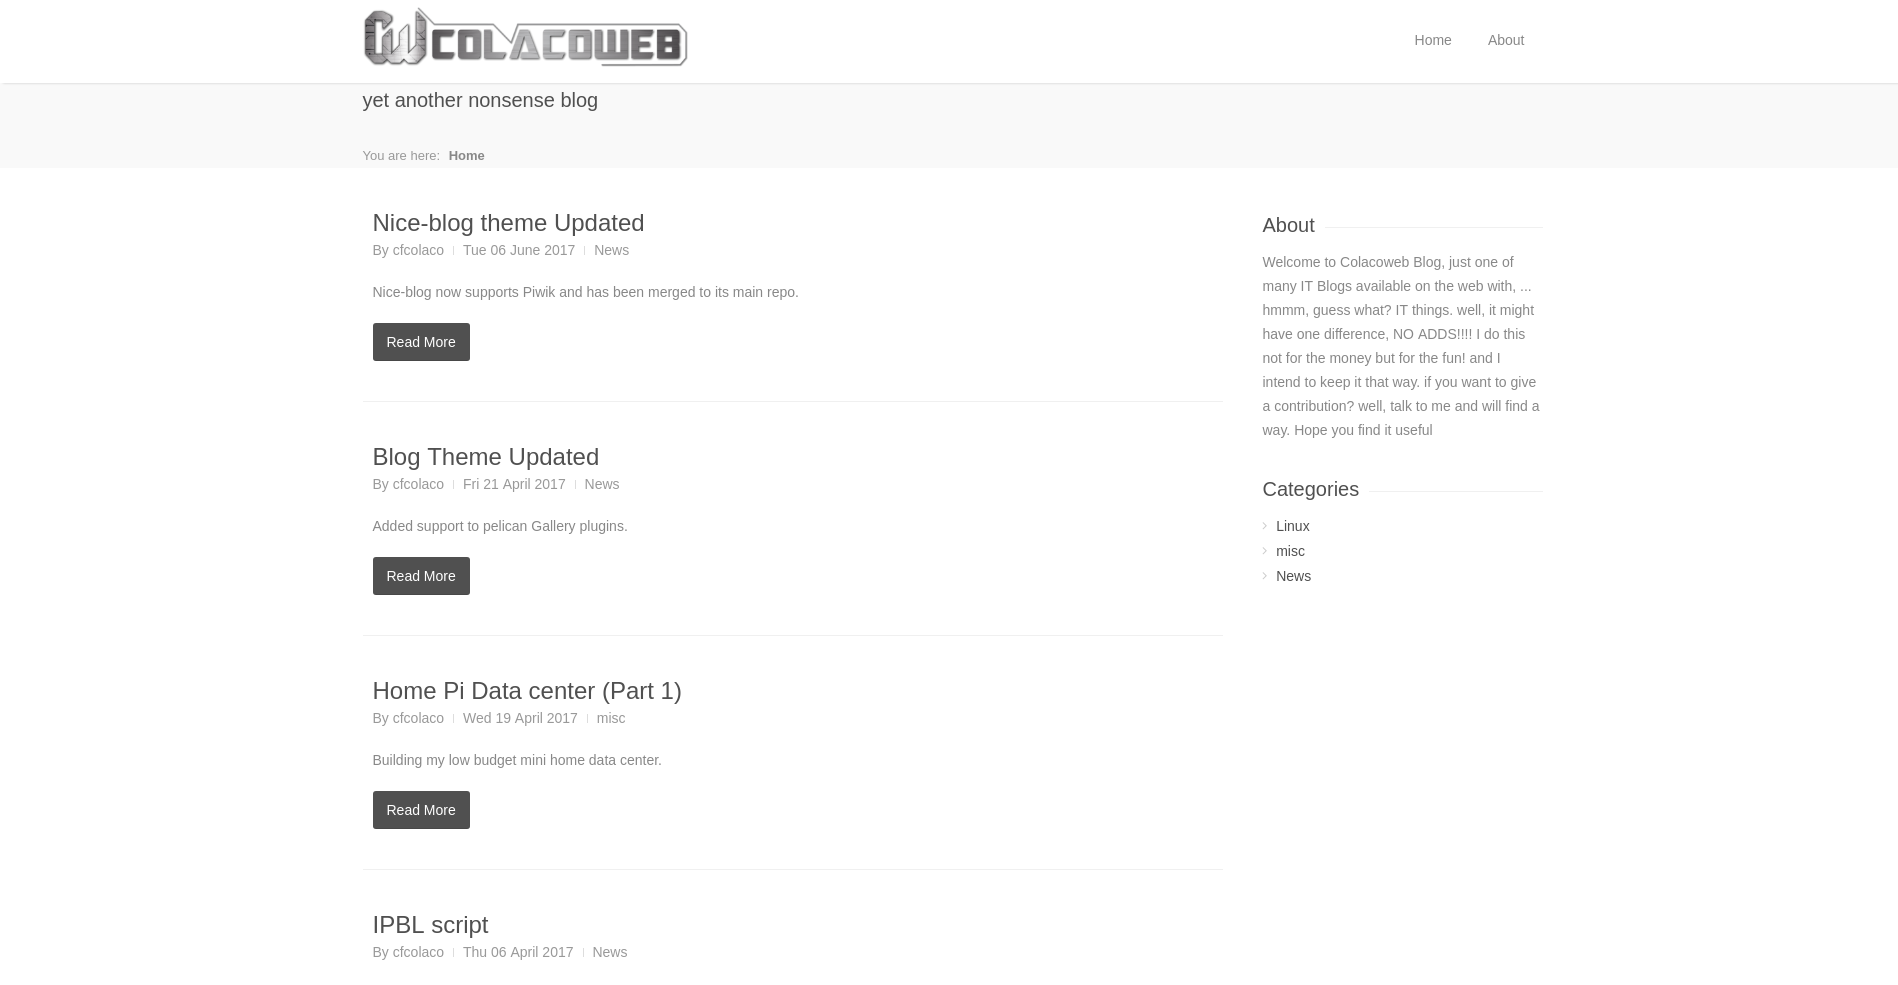
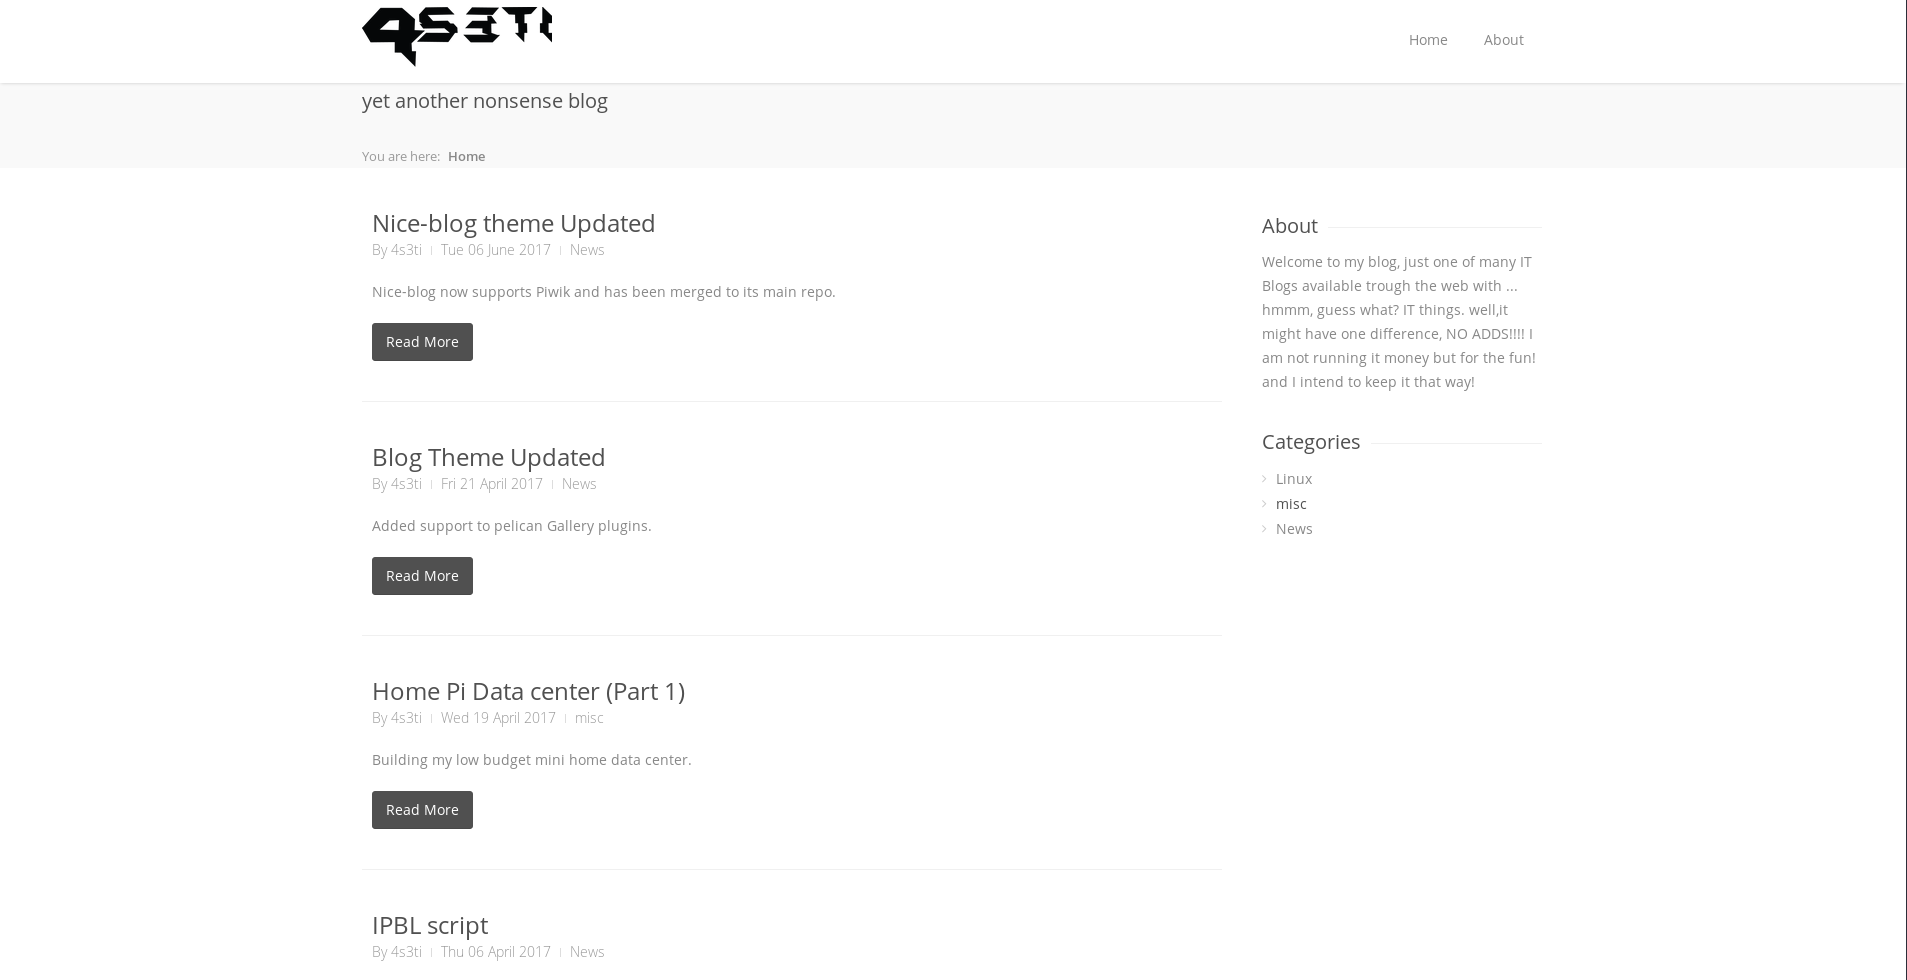
Changed colacoweb to 4s3ti.net, MD Syntax Fixes

diff --git a/README.md b/README.md
@@ -6,7 +6,7 @@ This is the theme use in my pelican blog http://guilhermetoti.com/
 
 # Blogs Using Nice-Blog
 
-https://blog.colacoweb.net
+https://4s3ti.net
 
 http://pietromarchesi.net
 
@@ -22,7 +22,7 @@ Subtitle: Put your subtitle here
 ```
 Image: image_name.extension
 ```
-**Image must be on `/content/images`**
+**Image must be on** `/content/images`
 
 ### Article image gallery:
 ```
@@ -32,13 +32,13 @@ gallery:<galleryname>
 
 ## Settings
 
-**This settings must be on `pelicanconf.py`**
+**This settings must be on** `pelicanconf.py`
 
 ### Change theme color:
 ```
 THEME_COLOR = 'blue'
 ```
-**Available colors is on `./static/css/colors`**
+**Available colors is on** `./static/css/colors`
 
 ### Menu left side Logo: 
 ```
